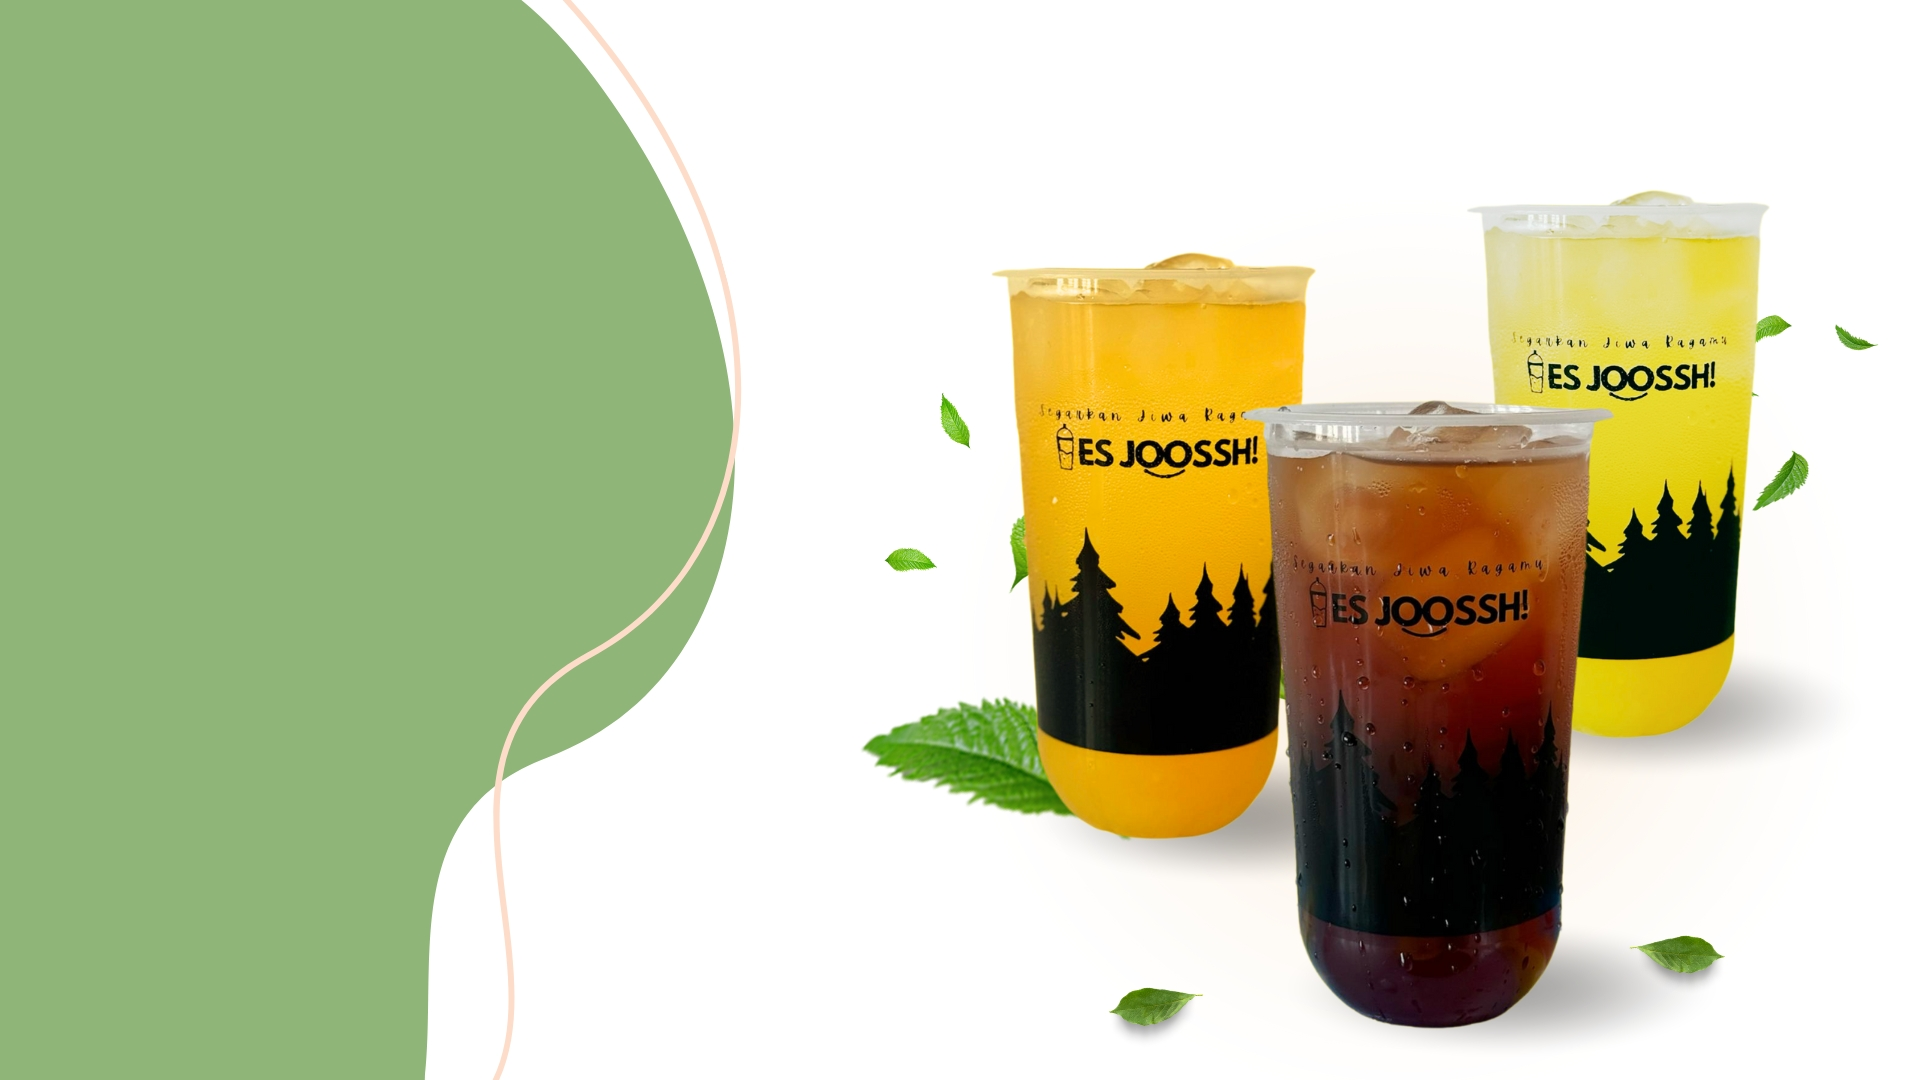
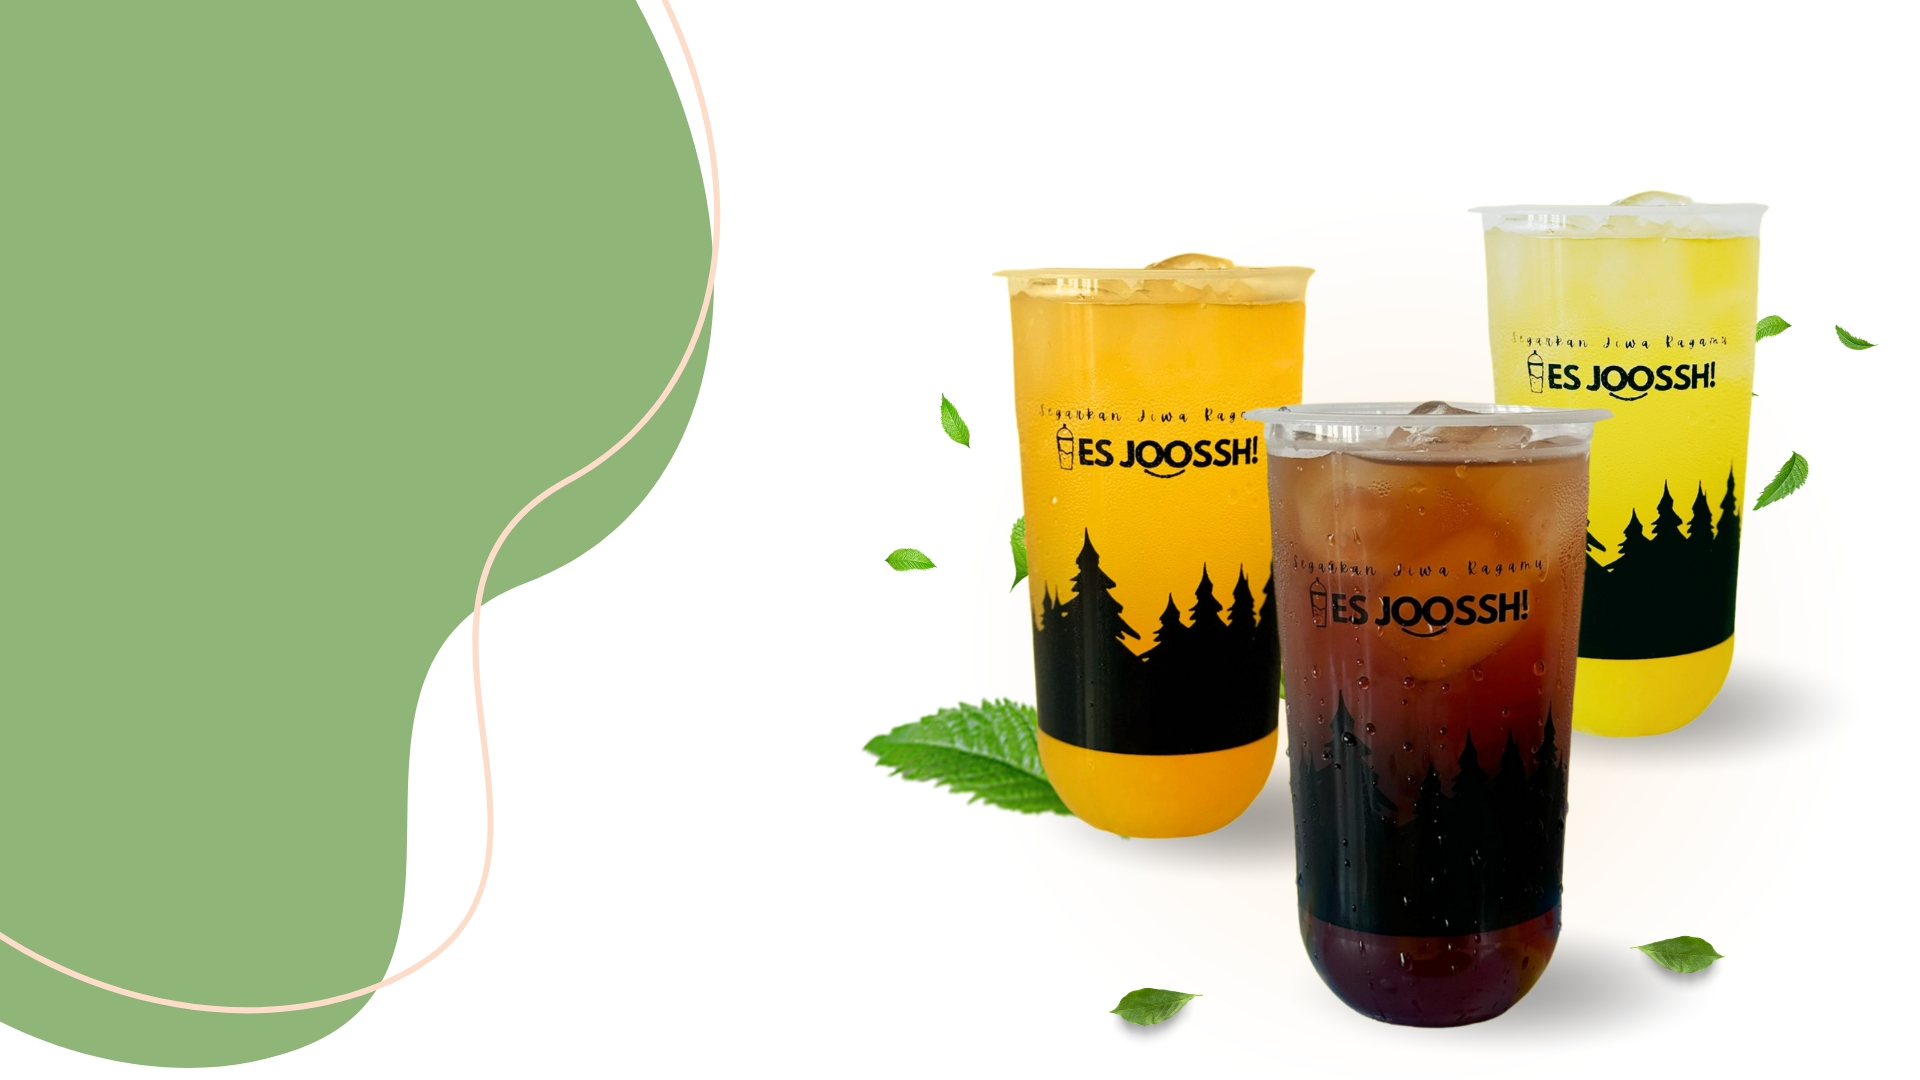
edit slider 1

diff --git a/index.html b/index.html
@@ -103,7 +103,7 @@
         <div id="header-carousel" class="carousel slide carousel-fade" data-bs-ride="carousel">
             <div class="carousel-inner">
                 <div class="carousel-item active">
-                    <img class="w-100" src="img/Es-Joossh!-bg-slider-1C.jpg" alt="Image">
+                    <img class="w-100" src="img/Es-Joossh!-bg-slider-1D.jpg" alt="Image">
                     <div class="carousel-caption">
                         <div class="container">
                             <div class="row justify-content-start">
@@ -114,7 +114,7 @@
                                     <h1 class="mb-4 animated slideInDown">
                                         Saatnya Minum Segar & Enak<br/>Gak Harus Parkir di Mall
                                     </h1>
-                                    <a href="#" class="btn btn-success py-3 px-5 animated slideInDown">Pesan Sekarang</a>
+                                    <a href="#" class="btn btn-success py-3 px-5 animated slideInDown rounded-pill">Pesan Sekarang</a>
                                 </div>
                             </div>
                         </div>
